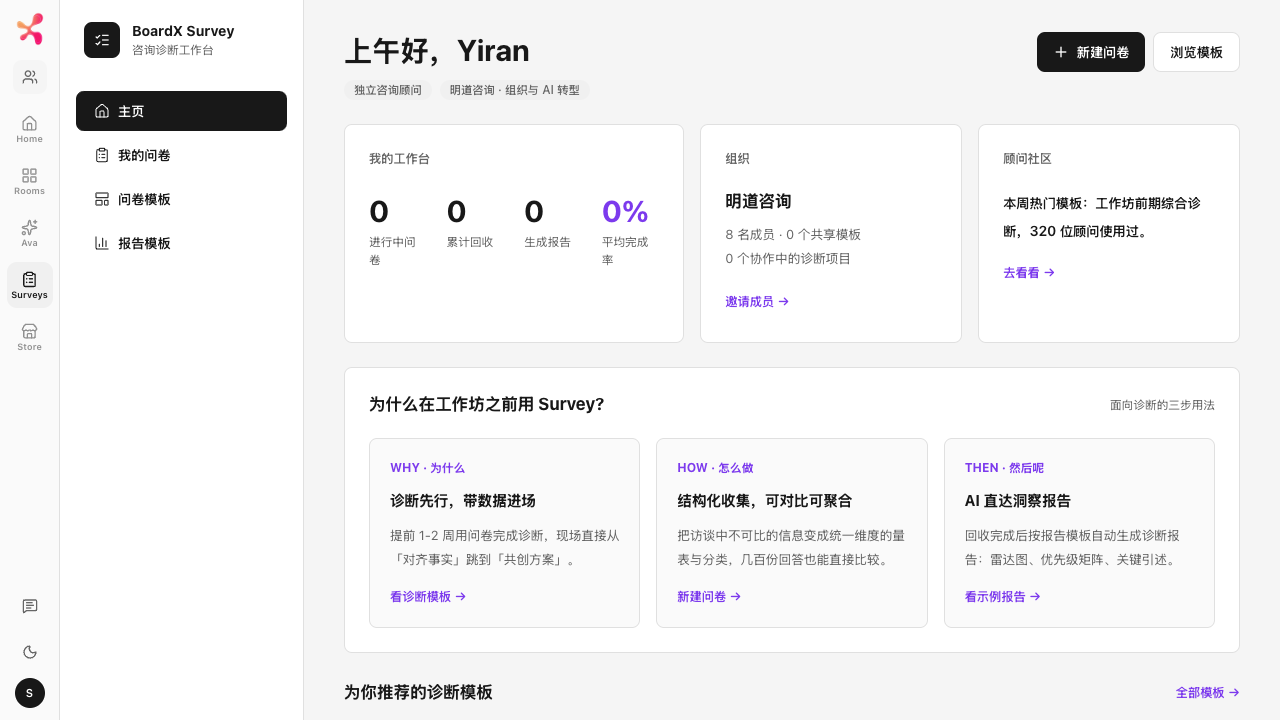
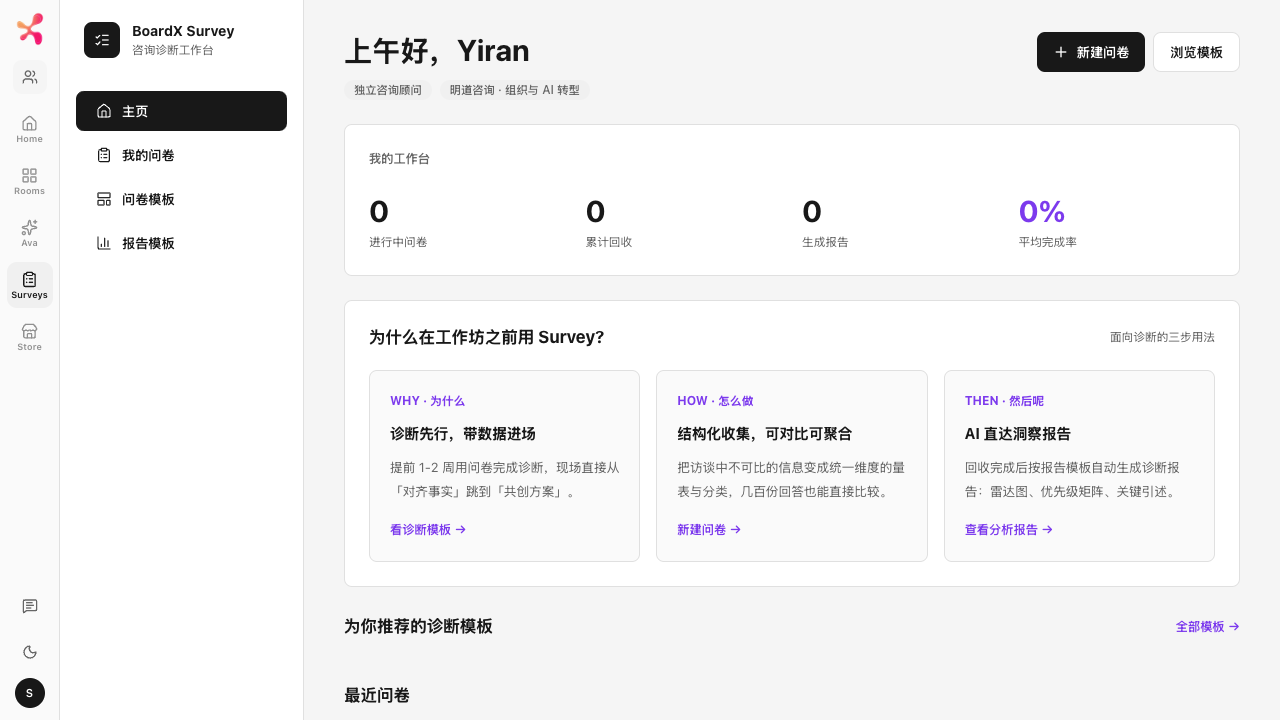
fix(survey): simplify home navigation

diff --git a/apps/web/app/(app)/surveys/page.tsx b/apps/web/app/(app)/surveys/page.tsx
@@ -722,6 +722,7 @@ function WorkspaceShell({
                 return (
                   <Button
                     key={item.id}
+                    data-testid={`survey-nav-${item.id}`}
                     type="button"
                     variant="ghost"
                     className={`justify-start gap-2 border-l-2 ${
@@ -749,7 +750,9 @@ function WorkspaceShell({
                       onNavigate("workspace");
                     }}
                   >
-                    <Icon className="h-4 w-4" strokeWidth={1.6} />
+                    <span className="grid h-5 w-5 shrink-0 place-items-center" aria-hidden="true">
+                      <Icon className="h-4 w-4" strokeWidth={1.8} />
+                    </span>
                     {item.label}
                   </Button>
                 );
@@ -7780,7 +7783,7 @@ export default function SurveysPage() {
               </div>
             </section>
 
-            <section className="grid gap-4 xl:grid-cols-[1.3fr_1fr_1fr]">
+            <section>
               <div data-testid="survey-home-metrics" className="rounded-lg border border-border bg-background p-6">
                 <p className="text-13 font-semibold text-muted-foreground">我的工作台</p>
                 <div className="mt-6 grid grid-cols-2 gap-5 sm:grid-cols-4">
@@ -7797,17 +7800,6 @@ export default function SurveysPage() {
                   ))}
                 </div>
               </div>
-              <div className="rounded-lg border border-border bg-background p-6">
-                <p className="text-13 font-semibold text-muted-foreground">组织</p>
-                <h2 className="mt-5 text-17 font-bold text-foreground">明道咨询</h2>
-                <p className="mt-2 text-13 leading-6 text-muted-foreground">8 名成员 · {savedTemplates.length} 个共享模板<br />{teamSurveys.length} 个协作中的诊断项目</p>
-                <Button type="button" variant="ghost" size="sm" className="mt-4 px-0 text-violet-600 hover:bg-transparent hover:text-violet-600 hover:underline">邀请成员 →</Button>
-              </div>
-              <div className="rounded-lg border border-border bg-background p-6">
-                <p className="text-13 font-semibold text-muted-foreground">顾问社区</p>
-                <p className="mt-5 text-14 font-semibold leading-7 text-foreground">本周热门模板：工作坊前期综合诊断，320 位顾问使用过。</p>
-                <Button type="button" variant="ghost" size="sm" onClick={() => { window.location.href = "/surveys?view=templates"; }} className="mt-3 px-0 text-violet-600 hover:bg-transparent hover:text-violet-600 hover:underline">去看看 →</Button>
-              </div>
             </section>
 
             <section data-testid="survey-home-method" className="rounded-lg border border-border bg-background p-6">
@@ -7817,16 +7809,40 @@ export default function SurveysPage() {
               </div>
               <div className="mt-5 grid gap-4 md:grid-cols-3">
                 {[
-                  ["WHY · 为什么", "诊断先行，带数据进场", "提前 1-2 周用问卷完成诊断，现场直接从「对齐事实」跳到「共创方案」。", "看诊断模板 →"],
-                  ["HOW · 怎么做", "结构化收集，可对比可聚合", "把访谈中不可比的信息变成统一维度的量表与分类，几百份回答也能直接比较。", "新建问卷 →"],
-                  ["THEN · 然后呢", "AI 直达洞察报告", "回收完成后按报告模板自动生成诊断报告：雷达图、优先级矩阵、关键引述。", "看示例报告 →"],
-                ].map(([eyebrow, title, copy, action]) => (
-                  <article key={title} className="rounded-lg border border-border bg-card p-5">
-                    <p className="text-12 font-bold text-violet-600">{eyebrow}</p>
-                    <h3 className="mt-3 text-15 font-bold text-foreground">{title}</h3>
-                    <p className="mt-3 text-13 leading-6 text-muted-foreground">{copy}</p>
-                    <p className="mt-4 text-13 font-semibold text-violet-600">{action}</p>
-                  </article>
+                  { id: "templates", eyebrow: "WHY · 为什么", title: "诊断先行，带数据进场", copy: "提前 1-2 周用问卷完成诊断，现场直接从「对齐事实」跳到「共创方案」。", action: "看诊断模板 →" },
+                  { id: "create", eyebrow: "HOW · 怎么做", title: "结构化收集，可对比可聚合", copy: "把访谈中不可比的信息变成统一维度的量表与分类，几百份回答也能直接比较。", action: "新建问卷 →" },
+                  { id: "report", eyebrow: "THEN · 然后呢", title: "AI 直达洞察报告", copy: "回收完成后按报告模板自动生成诊断报告：雷达图、优先级矩阵、关键引述。", action: "查看分析报告 →" },
+                ].map((method) => (
+                  <Button
+                    key={method.id}
+                    data-testid={`survey-method-${method.id}`}
+                    type="button"
+                    variant="outline"
+                    onClick={() => {
+                      if (method.id === "templates") {
+                        window.location.href = "/surveys?view=templates";
+                        return;
+                      }
+                      if (method.id === "create") {
+                        openEditor({ withAi: true });
+                        return;
+                      }
+                      const reportSurvey = visibleSurveys.find((item) => item.responses > 0);
+                      if (reportSurvey) {
+                        void selectSurveyForWorkspace(reportSurvey.id, "report");
+                        return;
+                      }
+                      window.location.href = "/surveys?view=my";
+                    }}
+                    className="h-auto min-h-48 items-start justify-start whitespace-normal rounded-lg bg-card p-5 text-left font-normal transition-colors hover:border-foreground/30 hover:bg-background"
+                  >
+                    <span className="block">
+                      <span className="block text-12 font-bold text-violet-600">{method.eyebrow}</span>
+                      <span className="mt-3 block text-15 font-bold text-foreground">{method.title}</span>
+                      <span className="mt-3 block text-13 leading-6 text-muted-foreground">{method.copy}</span>
+                      <span className="mt-4 block text-13 font-semibold text-violet-600">{method.action}</span>
+                    </span>
+                  </Button>
                 ))}
               </div>
             </section>

diff --git a/apps/web/e2e/survey-p25-008-source-stash-ui.spec.ts b/apps/web/e2e/survey-p25-008-source-stash-ui.spec.ts
@@ -13,9 +13,14 @@ test("BoardX Survey home matches the diagnostic workspace reference", async ({ p
   await page.goto("/surveys");
 
   await expect(page.getByTestId("survey-source-sidebar")).toContainText("BoardX Survey");
-  await expect(page.getByRole("navigation", { name: "Survey navigation" })).toContainText("主页");
+  const navigation = page.getByRole("navigation", { name: "Survey navigation" });
+  await expect(navigation).toContainText("主页");
+  await expect(navigation.locator("button")).toHaveCount(4);
+  await expect(navigation.locator("button svg")).toHaveCount(4);
   await expect(page.getByRole("heading", { name: /下午好|上午好|晚上好/ })).toBeVisible();
   await expect(page.getByTestId("survey-home-metrics")).toBeVisible();
+  await expect(page.getByText("组织", { exact: true })).toHaveCount(0);
+  await expect(page.getByText("顾问社区", { exact: true })).toHaveCount(0);
   await expect(page.getByTestId("survey-home-method")).toContainText("为什么在工作坊之前用 Survey");
   await expect(page.getByTestId("survey-home-templates")).toBeVisible();
   await expect(page.getByTestId("survey-home-recent")).toBeVisible();
@@ -24,6 +29,22 @@ test("BoardX Survey home matches the diagnostic workspace reference", async ({ p
     path: "../../phases/phase-p25-survey/sprints/sprint-12/evidence/survey-reference-home.png",
     fullPage: true,
   });
+});
+
+test("home method cards navigate to real survey workflows", async ({ page }) => {
+  await register(page);
+  await page.goto("/surveys");
+
+  await page.getByTestId("survey-method-templates").click();
+  await expect(page).toHaveURL(/\/surveys\?view=templates/);
+
+  await page.goto("/surveys");
+  await page.getByTestId("survey-method-create").click();
+  await expect(page.getByTestId("editor-command-bar")).toBeVisible();
+
+  await page.goto("/surveys");
+  await page.getByTestId("survey-method-report").click();
+  await expect(page).toHaveURL(/\/surveys\?view=my/);
 });
 
 test("template URL restores the source stash template manager", async ({ page }) => {

diff --git a/phases/phase-p25-survey/sprints/sprint-12/evidence/2026-07-17-survey-home-navigation.md b/phases/phase-p25-survey/sprints/sprint-12/evidence/2026-07-17-survey-home-navigation.md
@@ -1,0 +1,26 @@
+# Survey 首页导航精简证据
+
+## 用户可见行为
+- 左侧四个 Survey 菜单项使用统一尺寸和描边的 Lucide 图标。
+- 首页不再显示“组织”和“顾问社区”占位信息。
+- WHY / HOW / THEN 三个方法入口分别进入模板中心、AI 新建问卷和分析报告工作流；新用户没有可分析答卷时回到“我的问卷”，不展示虚假示例报告。
+
+## 验证
+```bash
+E2E_PORT=62620 COLLAB_WS_PORT=62621 pnpm exec playwright test e2e/survey-p25-008-source-stash-ui.spec.ts --grep "BoardX Survey home|home method cards"
+# 2 passed
+
+pnpm --filter @repo/web typecheck
+# exit 0
+
+bash apps/web/scripts/lint-design.sh
+# exit 0（仅仓库既有 LABEL-LANG-MIX 警告）
+
+git diff --check
+# exit 0
+```
+
+## 证据文件
+- `survey-reference-home.png`
+- `apps/web/e2e/survey-p25-008-source-stash-ui.spec.ts`
+

diff --git a/phases/phase-p25-survey/sprints/sprint-12/progress.md b/phases/phase-p25-survey/sprints/sprint-12/progress.md
@@ -8,6 +8,13 @@
 - 当前 blocker: F12 仍需验证真实答卷报告、零/低样本限制和失败重试；组合 E2E 另发现本地 `survey_ai_sessions_status_check` 不接受代码既有的 `open` 状态
 
 ## 会话记录
+### 2026-07-17（首页导航精简）
+- 本轮目标: 统一左侧菜单图标，移除首页无效的组织/顾问社区信息，并闭合 WHY/HOW/THEN 三个入口。
+- 已完成: 四个菜单图标统一尺寸与描边；删除组织和顾问社区卡片；模板、AI 新建问卷、分析报告入口接入真实工作流，无可分析答卷时确定性回到“我的问卷”。
+- 运行过的验证: 聚焦 Playwright 2 tests passed；Web typecheck；design lint；`git diff --check`。
+- 已记录证据: `evidence/2026-07-17-survey-home-navigation.md`、`evidence/survey-reference-home.png`；F12 保持 `in_progress`。
+- 下一步最佳动作: 继续统一“我的问卷”、模板中心及五步工作流的视觉与交互边界。
+
 ### 2026-07-17（参考诊断平台首页）
 - 本轮目标: 修正 `/surveys` 仍显示旧问卷列表的问题，按 `AI 问卷诊断平台(1).html` 落实参考首页。
 - 已完成: 新增诊断工作台首页、四项指标、组织/社区信息、WHY/HOW/THEN 方法区、推荐模板和最近问卷；我的问卷移动到 `?view=my`，模板中心保留 `?view=templates`。

diff --git a/phases/phase-p25-survey/sprints/sprint-12/session-handoff.md b/phases/phase-p25-survey/sprints/sprint-12/session-handoff.md
@@ -1,6 +1,7 @@
 # 会话交接 — Sprint p25/12
 
 ## 当前已验证
+- Survey 首页导航精简已通过聚焦 E2E、typecheck、design lint 和补丁格式检查。
 - `/surveys` 参考诊断平台首页已通过聚焦 E2E、typecheck、design lint 和视觉截图对照。
 - F12 仍为 `in_progress`，没有提前标记 passing。
 - 专业报告链已通过 9 个 Vitest、typecheck、design lint 和 3 个聚焦 Playwright E2E。
@@ -9,6 +10,9 @@
 - 报告模板真实入口的三栏工作台契约已通过 F12 Playwright 3/3、Web typecheck 和 design lint。
 
 ## 本轮改动
+- Survey 左侧四个菜单项统一为固定尺寸和描边的 Lucide 图标。
+- 首页移除“组织”和“顾问社区”占位卡片，工作台指标改为完整横向区域。
+- WHY / HOW / THEN 三个方法卡分别连接模板中心、AI 新建问卷和分析报告；没有可分析答卷时回到“我的问卷”。
 - `/surveys` 改为诊断工作台首页；`?view=my` 为我的问卷；`?view=templates` 为模板中心。
 - 首页按参考稿实现工作台指标、组织/社区、WHY/HOW/THEN、推荐模板和最近问卷。
 - 报告不再使用模板模拟数字；服务端按真实答卷生成 `SurveyReportEvidenceBundle`。